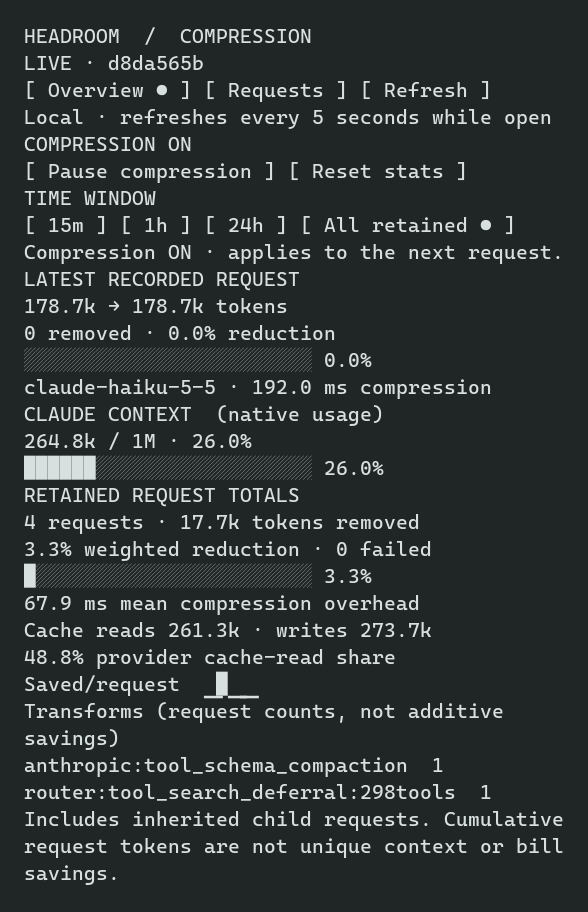
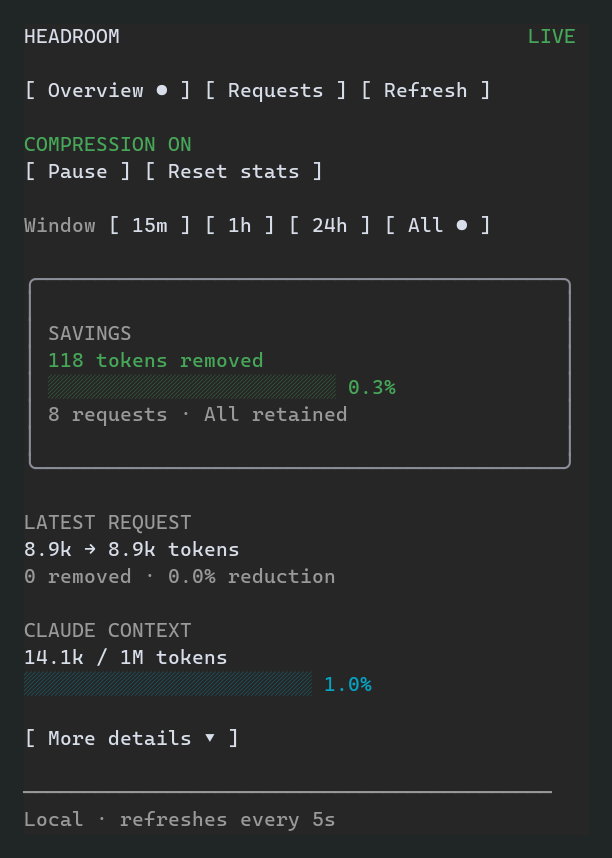
docs(claude): refresh native screenshots for spaced sidebar

diff --git a/integrations/claude-code-mod/docs/screenshots/README.md b/integrations/claude-code-mod/docs/screenshots/README.md
@@ -1,40 +1,23 @@
-# Native sidebar demo — 0.1.2
+# Native sidebar demo — 0.1.3
 
-Captured from a real Claude Code 2.1.293 / Haiku 5.5 session through Headroom on
-October 7, 2026. Haiku built a tiny dependency-free todo SPA in a disposable
-worktree using fictional todo fixtures. These images are rendered from that
-session's ConPTY ANSI output, cropped to the native sidebar. They are not host
-fixtures or generated UI mockups; displayed metrics and controls are unchanged.
+Captured from a real Claude Code 2.1.293 / Haiku 5.5 session through Headroom on October 7, 2026. Haiku built a tiny dependency-free todo SPA in a disposable worktree using fictional fixtures and an isolated, empty MCP configuration.
 
-Only the sidebar cells were published. Account details, workspace paths,
-conversation text, credentials and raw session logs are excluded. Message
-capture was off. The temporary session, worktree, fixtures and capture runtime
-were removed after the images were pushed and their remote copies verified.
+These images render the session’s actual ConPTY ANSI cells, cropped to the native sidebar. Only sidebar cells are published. Account details, workspace paths, conversation text, credentials and raw logs are excluded; message capture was off. Uploaded PNGs were fetched back and verified before temporary resources were removed.
 
 ## Live overview
 
-![Current native overview with compression controls and percentage bars](native-overview.png)
+![Spaced native overview with savings card](native-overview.png)
 
-The retained window contains four successful task requests and 17,687 tokens
-removed, a 3.34% weighted reduction (displayed as 3.3%). One request recorded a
-10.1% reduction; the latest request had no reduction. Native context usage is
-shown separately. These are retained request metrics, not billing savings or
-unique context reduction.
+Eight successful retained task requests recorded 118 tokens removed from 39,524 input tokens (0.3% weighted reduction). These are retained request metrics. Context usage is shown separately. Secondary metrics are available through **More details**.
 
 ## Paused compression
 
-![Actual paused state with resume control](native-paused.png)
+![Native compression paused](native-paused.png)
 
-Pause and resume were invoked through the native pane's keyboard control and
-confirmed against the live companion. Closing the pane does not resume compression.
+Pause and resume were invoked through native keyboard controls and confirmed against the live companion.
 
 ## Request history
 
-![Synthetic session request history](native-requests.png)
+![Framed synthetic session request history](native-requests.png)
 
-All retained requests belong to the same throwaway Haiku session. Message capture
-is disabled; the pane explicitly reports that policy rather than showing bodies.
-
-The adjacent `.txt` files preserve the same cropped TUI text. The small
-[native-demo-evidence.json](native-demo-evidence.json) records model, version,
-source commit and aggregate checks without exporting a transcript.
+The adjacent `.txt` files preserve the same cropped TUI text. [Provenance](native-demo-evidence.json) records the runtime and aggregate checks without exporting a transcript.

diff --git a/integrations/claude-code-mod/docs/VALIDATION.md b/integrations/claude-code-mod/docs/VALIDATION.md
@@ -117,3 +117,7 @@ excluded from this repository. Hosted checks are evaluated on the PR's exact hea
 
 CI loads checkout Python source with the unchanged Rust extension from the
 published 0.40.0 wheel; this PR does not modify native code.
+
+## Sidebar 0.1.3 visual hierarchy pass
+
+58 JavaScript tests, six native Claude test-kit tests, and 26 version/manifest regressions passed. Version verification and `git diff --check` passed. An independent review found no material issues. Real isolated Haiku 5.5 todo work produced eight successful retained requests, 39,524 → 39,406 tokens (118 removed, 0.3%). Native pause/resume was confirmed against the companion. Current screenshots show the framed savings card, spaced sections and request rows, and collapsed secondary details. Strict empty MCP configuration and fictional fixtures kept private project data out of the session.
